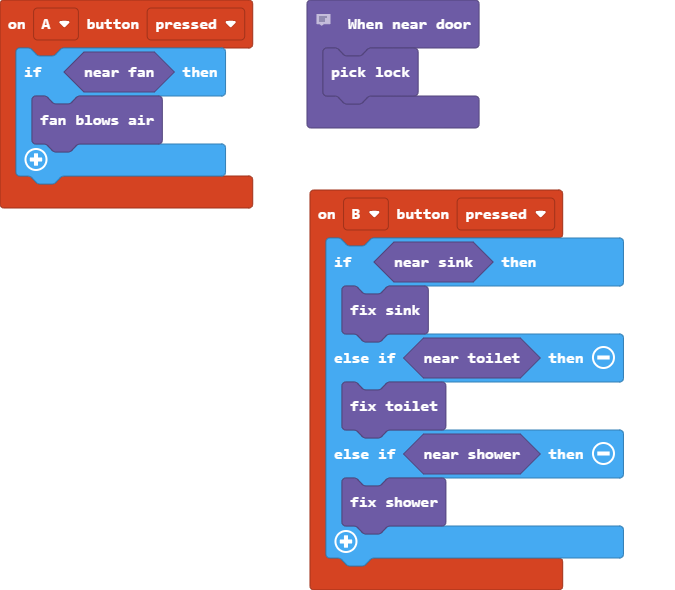
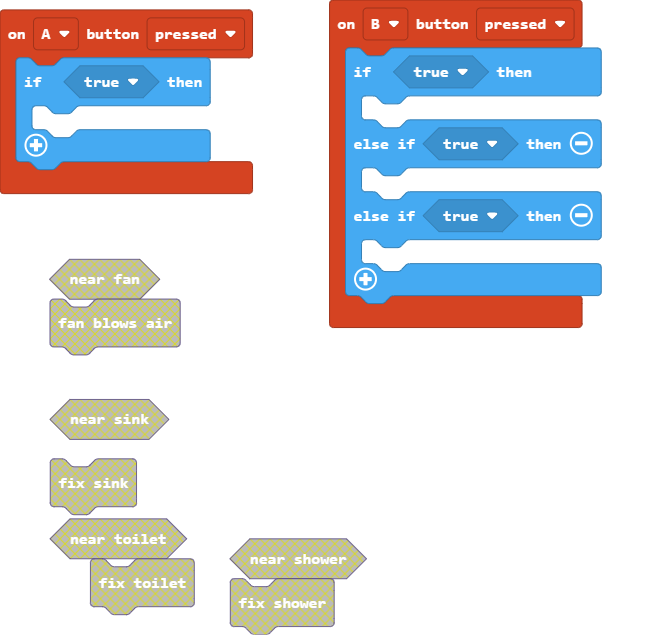
need to make hoc drawer appear in tutorial

diff --git a/main.ts b/main.ts
@@ -1,18 +1,14 @@
 controller.B.onEvent(ControllerButtonEvent.Pressed, function () {
-    if (hoc.near_sink()) {
-        hoc.fix_sink()
-    } else if (hoc.near_toilet()) {
-        hoc.fix_toilet()
-    } else if (hoc.near_shower()) {
-        hoc.fix_shower()
+    if (true) {
+    	
+    } else if (true) {
+    	
+    } else if (true) {
+    	
     }
 })
 controller.A.onEvent(ControllerButtonEvent.Pressed, function () {
-    if (hoc.nearFan()) {
-        hoc.fanBlowsAir()
+    if (true) {
+    	
     }
-})
-// event
-hoc.nearDoor(function () {
-    hoc.pickLock()
 })

diff --git a/extension.ts b/extension.ts
@@ -81,7 +81,6 @@ scene.onOverlapTile(SpriteKind.Player, myTiles.tile13, function (sprite, locatio
 // add intro, instructions
 let projectile: Sprite = null
 let fan: Sprite = null
-//let fanOn = false
 let toiletIsFixed = false
 let sinkIsFixed = false
 let talkedToBear = false

diff --git a/hocTutorial.md b/hocTutorial.md
@@ -1,4 +1,4 @@
-# hocTutorial
+# Escape your house!
 
 ``` template
 controller.B.onEvent(ControllerButtonEvent.Pressed, function () {
@@ -16,7 +16,7 @@ controller.A.onEvent(ControllerButtonEvent.Pressed, function () {
 ```
 
 ## Introduction @unplugged
-We'll need to go through each room until we find the front door. 
+We'll need to go through each room until you find the front door. 
 You've been in your room all of quarantine so there shouldn't be any obstacles… WAIT! 
 It looks like someone locked your door. I guess you'll have to pick the lock using code. 
 
@@ -106,9 +106,9 @@ the **true** in the ``||logic:if then||`` block.
 controller.B.onEvent(ControllerButtonEvent.Pressed, function () {
 	if (near_sink) {
 
-    } else if (false) {
+    } else if (true) {
     	
-    } else if (false) {
+    } else if (true) {
     	
     }
 })
@@ -123,9 +123,9 @@ From the same ``||Hoc:Hoc||`` drawer, find the ``||Hoc:fix sink||`` block and dr
 controller.B.onEvent(ControllerButtonEvent.Pressed, function () {
 	if (near_sink) {
         hoc.fix_sink()
-    } else if (false) {
+    } else if (true) {
     	
-    } else if (false) {
+    } else if (true) {
     	
     }
 })
@@ -164,7 +164,7 @@ controller.B.onEvent(ControllerButtonEvent.Pressed, function () {
         hoc.fix_sink()
     } else if (hoc.near_toilet()) {
     	hoc.fix_toilet()
-    } else if () {
+    } else if (true) {
     	
     }
 })
